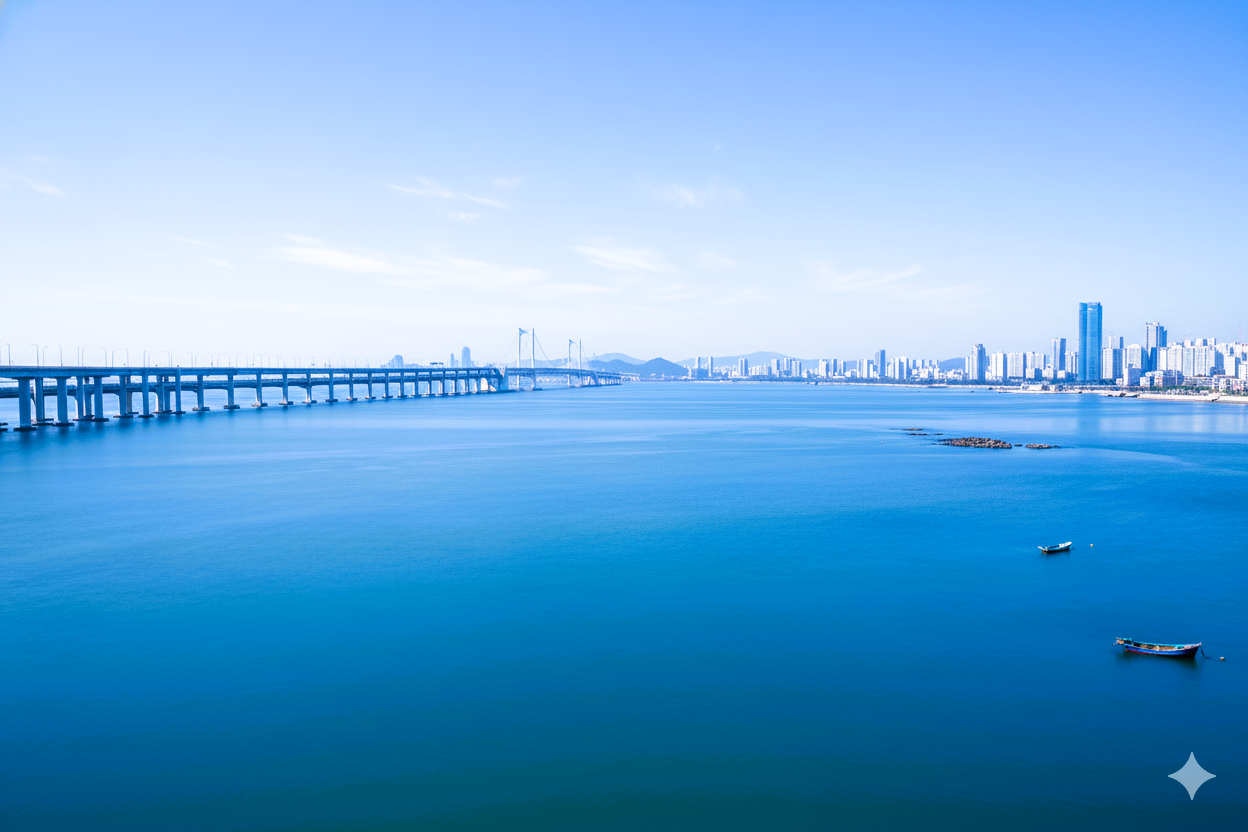
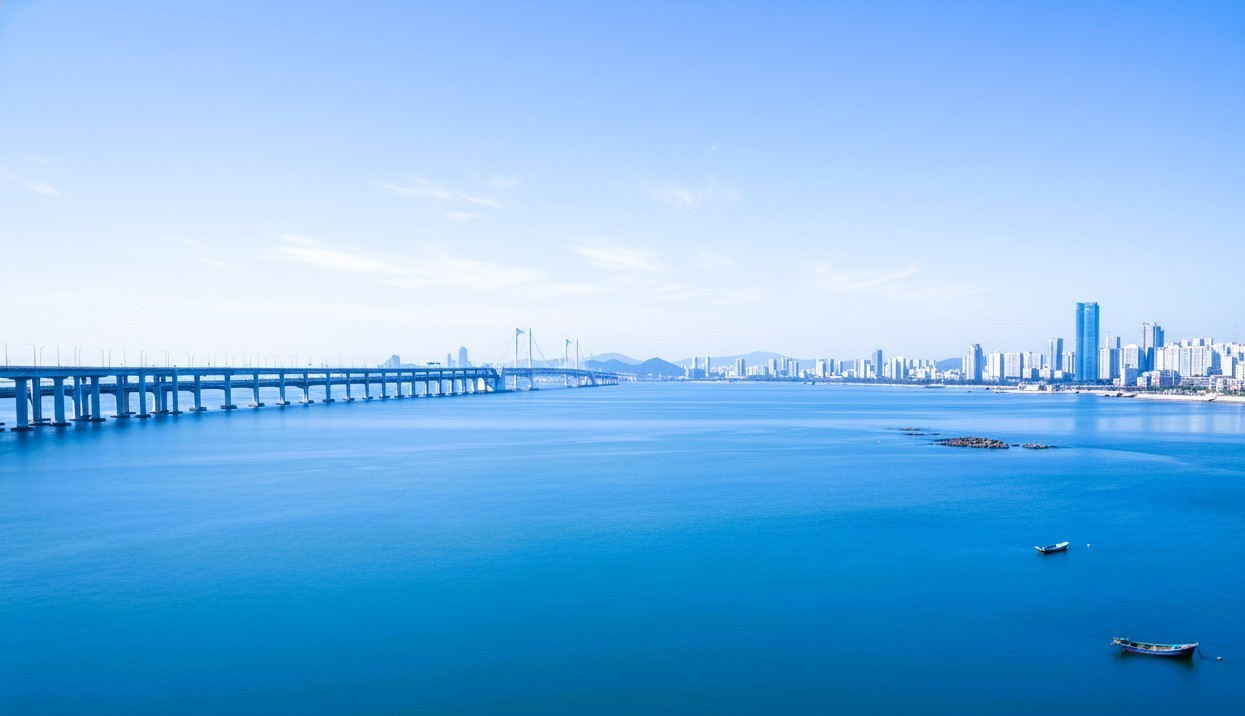
Styling the layout

diff --git a/frontend/src/App.css b/frontend/src/App.css
@@ -1,68 +1,151 @@
 .landingPageContainer {
   width: 100vw;
-  height: 100vh;
+  min-height: 100vh;
   background: url("/background.jpg");
   background-repeat: no-repeat;
   background-size: cover;
-  color: black;
+  background-position: center;
+  color: rgb(12, 2, 2);
+  display: flex;
+  flex-direction: column;
 }
 
 .landingPageContainer nav {
-  padding-inline: 1.2rem;
-  padding-block: 1.6rem;
+  padding: 1rem;
   display: flex;
   justify-content: space-between;
   align-items: center;
-}
-
-.landingPageContainer nav h2 {
-  font-size: 1.8rem;
-  font-weight: 500;
+  flex-wrap: wrap;
 }
 
 .landingPageContainer nav .navHeader {
   display: flex;
   align-items: center;
-  gap: 0.8rem;
-} 
+  gap: 0.5rem;
+}
+
+.landingPageContainer nav .navHeader img {
+  width: 40px;
+  height: 40px;
+}
+
+.landingPageContainer nav .navHeader h1 {
+  font-size: 1.5rem;
+  margin: 0;
+}
 
 .landingPageContainer nav .navlist {
   display: flex;
-  gap: 1.6rem;
+  gap: 1rem;
+  align-items: center;
+  flex-wrap: wrap;
+}
+
+.landingPageContainer nav .navlist p {
+  margin: 0;
   cursor: pointer;
+  padding: 0.5rem;
+}
+
+.landingPageContainer nav .navlist div[role='button'] {
+  background: #e47c1a;
+  padding: 0.5rem 1rem;
+  border-radius: 20px;
+  cursor: pointer;
+}
+
+.landingPageContainer nav .navlist div[role='button'] p {
+  margin: 0;
+  color: white;
 }
 
 .landingMainContainer {
   display: flex;
   justify-content: space-between;
-  padding-inline: 3rem;
-  height: 75vh;
   align-items: center;
+  padding: 2rem;
+  flex: 1;
+  gap: 2rem;
 }
 
-.landingMainContainer>div:nth-child(1) {
-  font-size: 2.2rem;
+.landingMainContainer > div:nth-child(1) {
+  flex: 1;
 }
 
-.landingMainContainer>div:nth-child(1) div[role='button'] {
-  background: #f5861fed;
+.landingMainContainer > div:nth-child(1) h1 {
+  font-size: 2.5rem;
+  margin-bottom: 0.8rem;
+}
+
+.landingMainContainer > div:nth-child(1) p {
+  font-size: 1.2rem;
+  margin-bottom: 2rem;
+}
+
+.landingMainContainer > div:nth-child(1) div[role='button'] {
+  background: #f5861f;
   width: fit-content;
-  padding: 1rem;
+  padding: 1rem 2rem;
   border-radius: 20px;
-  margin-top: 1.9rem;
   cursor: pointer;
 }
 
-.landingMainContainer>div:nth-child(1) div[role='button'] a {
+.landingMainContainer > div:nth-child(1) div[role='button'] a {
   text-decoration: none;
-  color: rgb(6, 6, 6);
-  font-size: 1.7rem;
+  color: white;
+  font-size: 1.2rem;
+  font-weight: bold;
 }
 
-.landingMainContainer>div:nth-child(2) img {
-  height: 70vh;
+.landingMainContainer > div:nth-child(2) {
+  flex: 1;
+  display: flex;
+  justify-content: center;
+}
+
+.landingMainContainer > div:nth-child(2) img {
+  max-height: 500px;
   width: auto;
   max-width: 100%;
+}
+
+.footer {
+  text-align: center;
+  padding: 1rem;
+  background: rgba(0, 0, 0, 0.8);
+  color: white;
+}
+
+/* Mobile Responsive */
+@media (max-width: 768px) {
+  .landingPageContainer nav {
+    flex-direction: column;
+    gap: 1rem;
+    text-align: center;
+  }
+
+  .landingMainContainer {
+    flex-direction: column;
+    text-align: center;
+    padding: 1rem;
+    gap: 2rem;
+  }
+
+  .landingMainContainer > div:nth-child(1) h1 {
+    font-size: 2rem;
+  }
+
+  .landingMainContainer > div:nth-child(1) p {
+    font-size: 1.1rem;
+  }
+
+  .landingMainContainer > div:nth-child(1) div[role='button'] {
+    margin: 0 auto;
+  }
+
+  .landingMainContainer > div:nth-child(2) img {
+    max-height: 300px;
+  }
 }
 
 .navBar {
@@ -132,7 +215,6 @@
   flex-direction: column;
 }
 
-/* Update existing home styles */
 .navBar {
   display: flex;
   align-items: center;
@@ -140,8 +222,8 @@
   padding-inline: 20px;
   padding-block: 10px;
   text-align: center;
-  background: rgba(255, 255, 255, 0.1); /* Semi-transparent nav */
-  backdrop-filter: blur(10px); /* Glass effect */
+  background: rgba(255, 255, 255, 0.1); 
+  backdrop-filter: blur(10px);
   position: relative;
   z-index: 3;
 }
@@ -156,21 +238,21 @@
   position: relative;
   z-index: 2;
 }
-
-/* Responsive design */
-@media (max-width: 768px) {
-  .meetContainer {
-    flex-direction: column;
-    gap: 2rem;
-  }
-  
-  .landingMainContainer {
-    flex-direction: column;
-    text-align: center;
-    padding-inline: 1rem;
-  }
-  
-  .landingMainContainer>div:nth-child(1) {
+/* Small Mobile */
+@media (max-width: 480px) {
+  .landingMainContainer > div:nth-child(1) h1 {
     font-size: 1.8rem;
+  }
+
+  .landingMainContainer > div:nth-child(1) p {
+    font-size: 1rem;
+  }
+
+  .landingMainContainer > div:nth-child(2) img {
+    max-height: 250px;
+  }
+
+  .landingPageContainer nav .navlist {
+    gap: 0.5rem;
   }
 }

diff --git a/frontend/src/pages/landing.jsx b/frontend/src/pages/landing.jsx
@@ -35,7 +35,7 @@ export default function LandingPage() {
                 <div>
                     <h1><span style={{ color: "#FF9839" }}>Connect</span> with your loved Ones</h1>
 
-                    <p>Connecting people. Securing conversations. </p>
+                    <p><b>Connecting people. Securing conversations.</b> </p>
                     <div role='button'>
                         <Link to={"/auth"}>Get Started</Link>
                     </div>
@@ -48,7 +48,7 @@ export default function LandingPage() {
             </div>
 
 
-
+           <div className='footer'> © 2025 LeadWithAnkit. All Rights Reserved.</div>
         </div>
     )
 }
